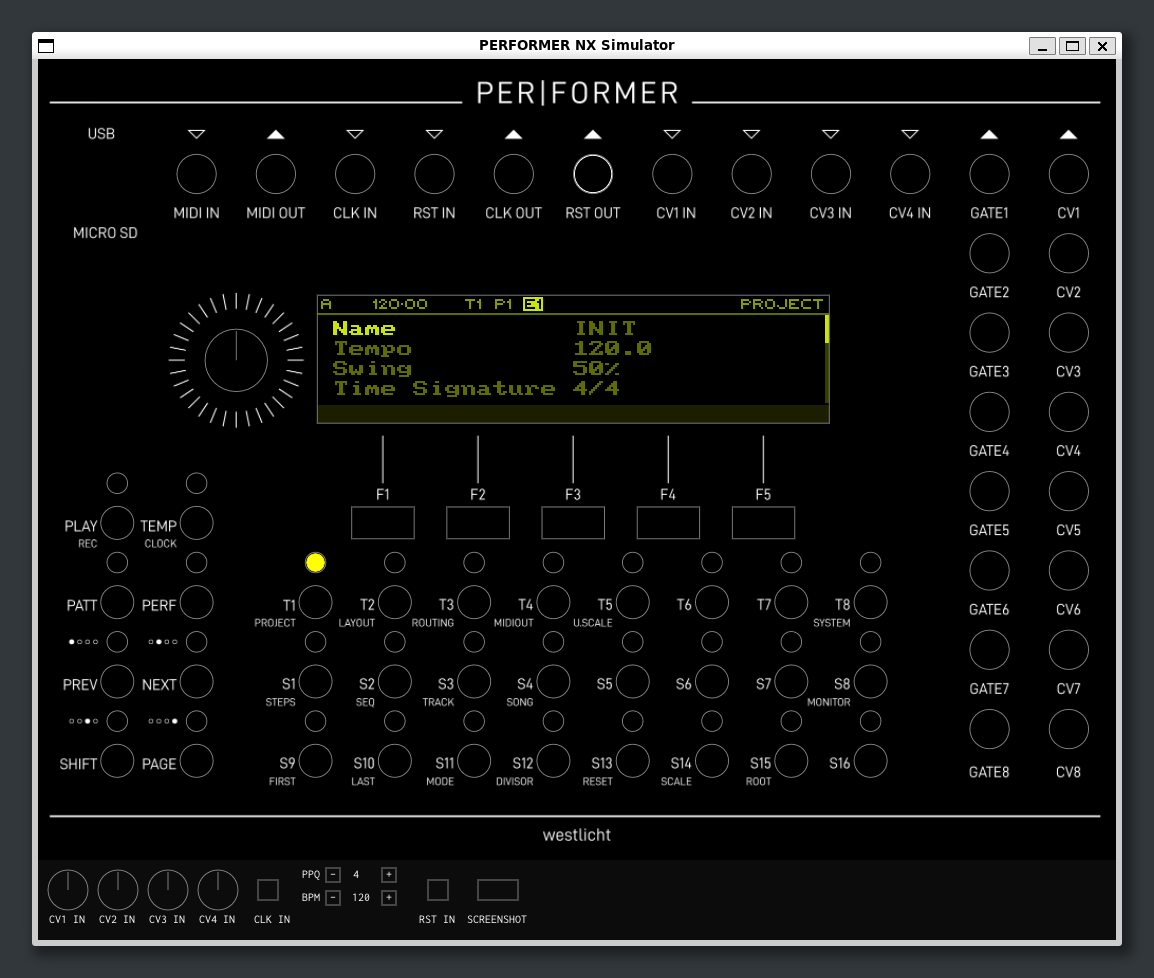
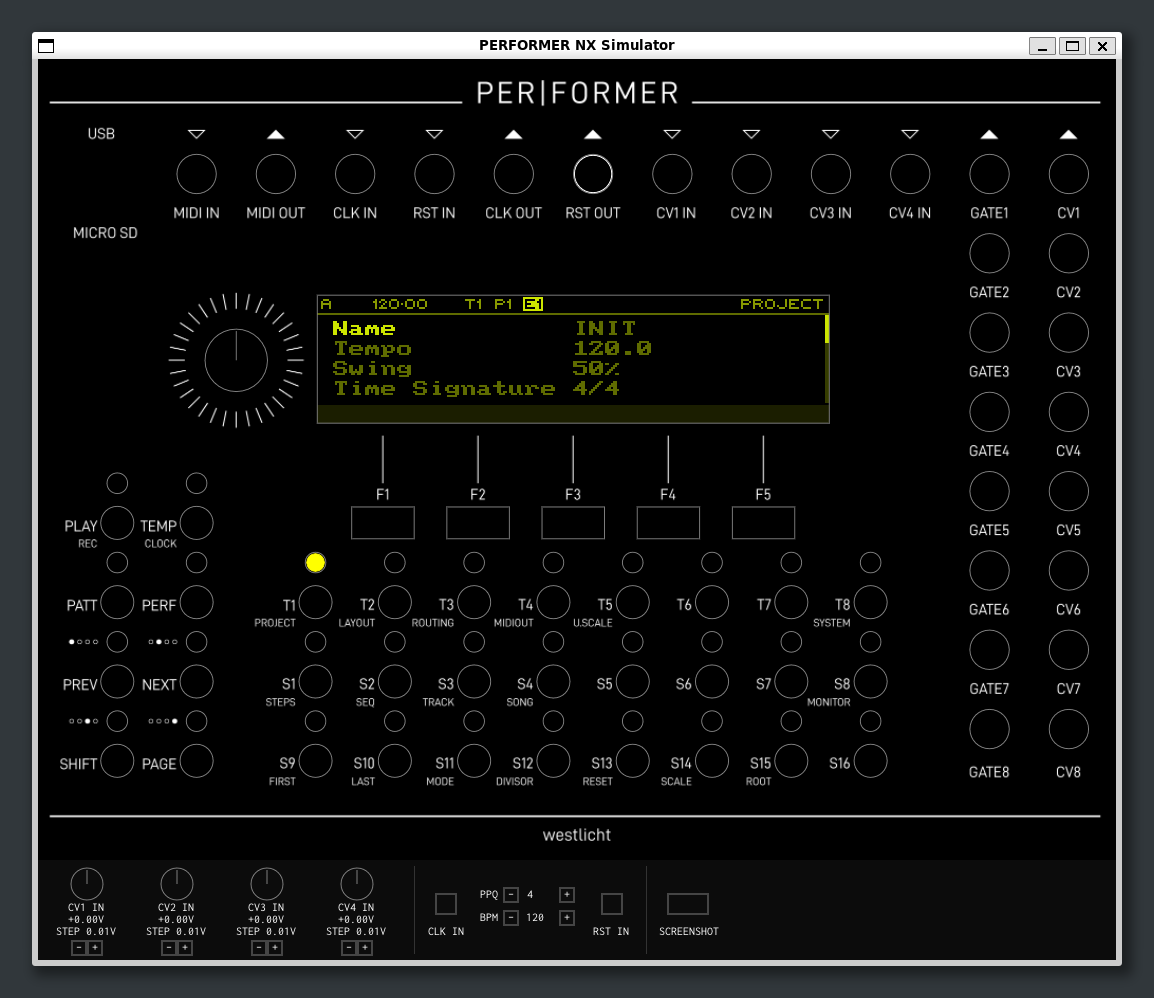
feat(Frontend): enhance CV input controls with fine-step adjustments and improved layout

diff --git a/src/platform/sim/sim/frontend/Frontend.cpp b/src/platform/sim/sim/frontend/Frontend.cpp
@@ -21,6 +21,7 @@
 #include <memory>
 #include <sstream>
 #include <iomanip>
+#include <algorithm>
 
 #ifdef __EMSCRIPTEN__
 #include <emscripten.h>
@@ -305,19 +306,72 @@ void Frontend::setupControls() {
     int x = 10;
     int y = Frontpanel::windowHeight;
 
+    constexpr float kCvMinVoltage = -5.f;
+    constexpr float kCvMaxVoltage = 5.f;
+    constexpr float kCvFineStepVoltage = 0.01f; // 1/100 V
+    const Color separatorColor(0.2f, 0.2f, 0.2f, 1.f);
+    const float separatorY = float(y + 6);
+    const float separatorHeight = float(Frontpanel::controlHeight - 12);
+
     // panel
     _window->createWidget<Panel>(Vector2f(0.f, Frontpanel::windowHeight), Vector2f(Frontpanel::windowWidth, Frontpanel::controlHeight), Color(1.f, 1.f, 1.f, 0.05f));
 
     // cv inputs
     for (int i = 0; i < TargetConfig::AdcChannels; ++i) {
-        auto rotary = _window->createWidget<Rotary>(Vector2f(x, y + 10), Vector2f(40, 40));
-        rotary->setValueCallback([this, i] (float value) {
-            _simulator.setAdc(i, value * 10.f - 5.f);
+        const int controlX = x;
+        // Center rotary over the 78px label/value area.
+        auto rotary = _window->createWidget<Rotary>(Vector2f(controlX + 23, y + 8), Vector2f(32, 32));
+        auto fineDown = _window->createWidget<Button>(Vector2f(controlX + 24, y + 81), Vector2f(14, 14), Button::Rectangle);
+        auto fineUp = _window->createWidget<Button>(Vector2f(controlX + 40, y + 81), Vector2f(14, 14), Button::Rectangle);
+
+        _window->createWidget<Label>(Vector2f(controlX + 28, y + 89), Vector2f(8, 8), "-");
+        _window->createWidget<Label>(Vector2f(controlX + 44, y + 89), Vector2f(8, 8), "+");
+        // Show the fine-step size centered below the CV label/value area.
+        _window->createWidget<Label>(Vector2f(controlX, y + 72), Vector2f(78, 10), "STEP 0.01V");
+
+        _window->createWidget<Label>(Vector2f(controlX, y + 48), Vector2f(78, 10), tfm::format("CV%d IN", i + 1));
+        auto voltageLabel = _window->createWidget<Label>(Vector2f(controlX, y + 60), Vector2f(78, 10), "");
+
+        auto formatVoltage = [] (float voltage) {
+            // Avoid rendering "-0.00V" near zero.
+            if (std::fabs(voltage) < 0.0005f) {
+                voltage = 0.f;
+            }
+            return tfm::format("%+.2fV", voltage);
+        };
+
+        auto setCvInputVoltage = [this, i, rotary, voltageLabel, formatVoltage, kCvMinVoltage, kCvMaxVoltage] (float voltage) {
+            float clampedVoltage = std::max(kCvMinVoltage, std::min(kCvMaxVoltage, voltage));
+            float normalized = (clampedVoltage - kCvMinVoltage) / (kCvMaxVoltage - kCvMinVoltage);
+            rotary->setValue(normalized);
+            _simulator.setAdc(i, clampedVoltage);
+            voltageLabel->setText(formatVoltage(clampedVoltage));
+        };
+
+        rotary->setValueCallback([setCvInputVoltage, kCvMinVoltage, kCvMaxVoltage] (float value) {
+            setCvInputVoltage(kCvMinVoltage + value * (kCvMaxVoltage - kCvMinVoltage));
         });
-        _simulator.setAdc(i, 0.f);
-        _window->createWidget<Label>(Vector2f(x, y + 60), Vector2f(40, 10), tfm::format("CV%d IN", i + 1));
-        x += 50;
+
+        fineDown->setCallback([setCvInputVoltage, rotary, kCvMinVoltage, kCvMaxVoltage, kCvFineStepVoltage] (bool pressed) {
+            if (pressed) {
+                float currentVoltage = kCvMinVoltage + rotary->value() * (kCvMaxVoltage - kCvMinVoltage);
+                setCvInputVoltage(currentVoltage - kCvFineStepVoltage);
+            }
+        });
+
+        fineUp->setCallback([setCvInputVoltage, rotary, kCvMinVoltage, kCvMaxVoltage, kCvFineStepVoltage] (bool pressed) {
+            if (pressed) {
+                float currentVoltage = kCvMinVoltage + rotary->value() * (kCvMaxVoltage - kCvMinVoltage);
+                setCvInputVoltage(currentVoltage + kCvFineStepVoltage);
+            }
+        });
+
+        setCvInputVoltage(0.f);
+        x += 90;
     }
+
+    _window->createWidget<Panel>(Vector2f(float(x + 6), separatorY), Vector2f(1.f, separatorHeight), separatorColor);
+    x += 14;
 
     // clock input
     {
@@ -325,24 +379,24 @@ void Frontend::setupControls() {
         int controlY = y;
 
         auto button = _window->createWidget<Button>(
-            Vector2f(controlX + 10, controlY + 20),
+            Vector2f(controlX + 14, controlY + 34),
             Vector2f(20, 20),
             Button::Rectangle,
             SDLK_F10
         );
-        _window->createWidget<Label>(Vector2f(controlX, controlY + 60), Vector2f(50, 10), "CLK IN");
+        _window->createWidget<Label>(Vector2f(controlX, controlY + 72), Vector2f(50, 10), "CLK IN");
 
         _clockSource.reset(new ClockSource(_simulator, [this] () {
             _simulator.writeDigitalInput(0, true);
             _simulator.writeDigitalInput(0, false);
         }));
 
-        auto ppqValueLabel = _window->createWidget<Label>(Vector2f(controlX + 94, controlY + 15), Vector2f(30, 10), "");
-        auto bpmValueLabel = _window->createWidget<Label>(Vector2f(controlX + 94, controlY + 38), Vector2f(40, 10), "");
+        auto ppqValueLabel = _window->createWidget<Label>(Vector2f(controlX + 94, controlY + 35), Vector2f(30, 10), "");
+        auto bpmValueLabel = _window->createWidget<Label>(Vector2f(controlX + 94, controlY + 58), Vector2f(40, 10), "");
 
-        _window->createWidget<Label>(Vector2f(controlX + 46, controlY + 15), Vector2f(35, 10), "PPQ");
+        _window->createWidget<Label>(Vector2f(controlX + 50, controlY + 35), Vector2f(35, 10), "PPQ");
         // Hint: correct PPQ = 48 / ClockSetup::InputDivisor (e.g. 48/12=4 for default 1/16)
-        _window->createWidget<Label>(Vector2f(controlX + 46, controlY + 38), Vector2f(35, 10), "BPM");
+        _window->createWidget<Label>(Vector2f(controlX + 50, controlY + 58), Vector2f(35, 10), "BPM");
 
         auto refreshClockLabels = [this, ppqValueLabel, bpmValueLabel] () {
             ppqValueLabel->setText(tfm::format("%d", _clockSource->ppqn()));
@@ -350,15 +404,15 @@ void Frontend::setupControls() {
         };
         refreshClockLabels();
 
-        auto ppqDown = _window->createWidget<Button>(Vector2f(controlX + 78, controlY + 8), Vector2f(14, 14), Button::Rectangle);
-        auto ppqUp = _window->createWidget<Button>(Vector2f(controlX + 134, controlY + 8), Vector2f(14, 14), Button::Rectangle);
-        auto bpmDown = _window->createWidget<Button>(Vector2f(controlX + 78, controlY + 31), Vector2f(14, 14), Button::Rectangle);
-        auto bpmUp = _window->createWidget<Button>(Vector2f(controlX + 134, controlY + 31), Vector2f(14, 14), Button::Rectangle);
+        auto ppqDown = _window->createWidget<Button>(Vector2f(controlX + 82, controlY + 28), Vector2f(14, 14), Button::Rectangle);
+        auto ppqUp = _window->createWidget<Button>(Vector2f(controlX + 138, controlY + 28), Vector2f(14, 14), Button::Rectangle);
+        auto bpmDown = _window->createWidget<Button>(Vector2f(controlX + 82, controlY + 51), Vector2f(14, 14), Button::Rectangle);
+        auto bpmUp = _window->createWidget<Button>(Vector2f(controlX + 138, controlY + 51), Vector2f(14, 14), Button::Rectangle);
 
-        _window->createWidget<Label>(Vector2f(controlX + 82, controlY + 16), Vector2f(8, 8), "-");
-        _window->createWidget<Label>(Vector2f(controlX + 138, controlY + 16), Vector2f(8, 8), "+");
-        _window->createWidget<Label>(Vector2f(controlX + 82, controlY + 39), Vector2f(8, 8), "-");
-        _window->createWidget<Label>(Vector2f(controlX + 138, controlY + 39), Vector2f(8, 8), "+");
+        _window->createWidget<Label>(Vector2f(controlX + 86, controlY + 36), Vector2f(8, 8), "-");
+        _window->createWidget<Label>(Vector2f(controlX + 142, controlY + 36), Vector2f(8, 8), "+");
+        _window->createWidget<Label>(Vector2f(controlX + 86, controlY + 59), Vector2f(8, 8), "-");
+        _window->createWidget<Label>(Vector2f(controlX + 142, controlY + 59), Vector2f(8, 8), "+");
 
         ppqDown->setCallback([this, refreshClockLabels] (bool pressed) {
             if (pressed) {
@@ -402,12 +456,12 @@ void Frontend::setupControls() {
     // reset input
     {
         auto button = _window->createWidget<Button>(
-            Vector2f(x + 10, y + 20),
+            Vector2f(x + 10, y + 34),
             Vector2f(20, 20),
             Button::Rectangle,
             SDLK_F11
         );
-        _window->createWidget<Label>(Vector2f(x, y + 60), Vector2f(40, 10), "RST IN");
+        _window->createWidget<Label>(Vector2f(x, y + 72), Vector2f(40, 10), "RST IN");
         x += 50;
 
         button->setCallback([this] (bool pressed) {
@@ -415,15 +469,18 @@ void Frontend::setupControls() {
         });
     }
 
+    _window->createWidget<Panel>(Vector2f(float(x + 4), separatorY), Vector2f(1.f, separatorHeight), separatorColor);
+    x += 12;
+
     // screenshot
     {
         auto button = _window->createWidget<Button>(
-            Vector2f(x + 10, y + 20),
+            Vector2f(x + 14, y + 34),
             Vector2f(40, 20),
             Button::Rectangle,
             SDLK_F12
         );
-        _window->createWidget<Label>(Vector2f(x, y + 60), Vector2f(60, 10), "SCREENSHOT");
+        _window->createWidget<Label>(Vector2f(x + 6, y + 72), Vector2f(60, 10), "SCREENSHOT");
         x += 70;
 
         button->setCallback([&] (bool pressed) {

diff --git a/src/platform/sim/sim/frontend/widgets/Rotary.h b/src/platform/sim/sim/frontend/widgets/Rotary.h
@@ -2,6 +2,8 @@
 
 #include "../Widget.h"
 
+#include <cmath>
+
 namespace sim {
 
 class Rotary : public Widget {
@@ -50,13 +52,29 @@ public:
         _hovered = isInside(e.pos());
         if (_pressed) {
             int delta = e.pos().x() - _lastPos.x();
-            updateValue(_value + delta / 100.f);
+            float nextValue = _value + delta / 100.f;
+
+            // Hold Shift while dragging to quantize to 0.25V steps.
+            // Rotary uses a normalized [0..1] range that maps to [-5V..+5V],
+            // so one 0.25V step equals 0.025 in normalized units.
+            if ((SDL_GetModState() & KMOD_SHIFT) != 0) {
+                constexpr float normalizedStep = 0.025f;
+                nextValue = std::round(nextValue / normalizedStep) * normalizedStep;
+            }
+
+            updateValue(nextValue);
             _lastPos = e.pos();
         }
     }
 
     virtual void onMouseDown(MouseButtonEvent &e) override {
         if (!_pressed && e.button() == MouseButtonEvent::Left && isInside(e.pos())) {
+            if (e.clicks() >= 2) {
+                // Double-click resets rotary center (exactly 0V in CV mapping).
+                updateValue(0.5f);
+                e.consume();
+                return;
+            }
             SDL_CaptureMouse(SDL_TRUE);
             _lastPos = e.pos();
             setPressed(true);

diff --git a/src/platform/sim/sim/frontend/Frontpanel.h b/src/platform/sim/sim/frontend/Frontpanel.h
@@ -22,7 +22,7 @@ static double scale = (256.0 / 82.0) * lcdIntegerScale;
 
 static int windowWidth = std::ceil(width * scale);
 static int windowHeight = std::ceil(height * scale);
-static int controlHeight = 80;
+static int controlHeight = 100;
 
 enum class Widget {
     Jack,

diff --git a/README.md b/README.md
@@ -39,6 +39,8 @@ Firmware for the **PERFORMER NX** Eurorack sequencer.
   - [Build strategy for reliable on-device debugging](#build-strategy-for-reliable-on-device-debugging)
   - [When to debug on hardware vs simulator](#when-to-debug-on-hardware-vs-simulator)
 - [Simulator workflow](#simulator-workflow)
+  - [Simulator keyboard mapping](#simulator-keyboard-mapping)
+  - [Simulator control strip](#simulator-control-strip)
   - [Simulator display color configuration](#simulator-display-color-configuration)
 - [Troubleshooting](#troubleshooting)
 - [Source tree overview](#source-tree-overview)
@@ -728,6 +730,95 @@ Typical simulator loop:
 2. Rebuild in `build/sim/debug`
 3. Run simulator
 4. Repeat
+
+### Simulator keyboard mapping
+
+The simulator mirrors the frontpanel buttons on the computer keyboard.
+The mapping below is derived from the simulator frontend and the test controller button map, so it reflects the current implementation.
+
+#### Frontpanel button mapping
+
+| Keyboard key | Simulator control | Notes |
+|---|---|---|
+| `Q` `W` `E` `R` `T` `Y` `U` `I` | `TRACK 1` … `TRACK 8` | Top row of track buttons |
+| `A` `S` `D` `F` `G` `H` `J` `K` | `STEP 1` … `STEP 8` | Middle row |
+| `Z` `X` `C` `V` `B` `N` `M` `,` | `STEP 9` … `STEP 16` | Bottom row, last key is comma |
+| `1` | `PLAY` | Global transport button |
+| `2` | `CLOCK` | Clock page / clock button |
+| `3` | `PATT` | Pattern page / pattern button |
+| `4` | `PERF` | Performer page / performer button |
+| `Left Arrow` | `PREV` | Previous / left navigation button |
+| `Right Arrow` | `NEXT` | Next / right navigation button |
+| `Left Shift` | `SHIFT` | Modifier button on the frontpanel |
+| `Left Alt` | `PAGE` | Page modifier button |
+| `F1` … `F5` | Soft buttons `F1` … `F5` | Frontpanel function buttons |
+| `Space` | Encoder press | Presses the encoder button |
+
+#### Simulator-only keyboard shortcuts
+
+| Keyboard key | Simulator control | Notes |
+|---|---|---|
+| `F10` | `CLK IN` | Toggles external clock emulation on/off |
+| `F11` | `RST IN` | Holds the reset input while pressed |
+| `F12` | Screenshot | Saves `screenshot.png` from the simulator window |
+
+Notes:
+
+- The encoder rotation itself is currently controlled with the mouse in the simulator.
+- The extra control strip below the panel (CV inputs, clock/reset emulation, screenshot) is simulator-only and has no hardware equivalent.
+
+### Simulator control strip
+
+Below the frontpanel image, the simulator provides an additional control strip for test and development workflows.
+It lets you emulate analog CV inputs, external clock/reset signals, and capture LCD screenshots without requiring hardware.
+
+#### CV input emulation (`CV1 IN` … `CV4 IN`)
+
+Each simulated CV input provides a rotary control plus a live voltage readout.
+
+- Voltage range: `-5.00V` to `+5.00V`
+- Default value at startup: `0.00V`
+- Live readout updates immediately and is shown with two decimal places
+- Fine-step buttons change the value in `0.01V` increments
+- Values are clamped to the valid input range
+
+Mouse interaction on the CV rotaries:
+
+- **Drag** to change the input voltage continuously
+- **Double-click** to reset the value exactly to `0.00V`
+- **Hold `SHIFT` while dragging** to quantize movement in `0.25V` steps
+
+These controls drive the simulator ADC inputs directly and are useful for testing CV recording, routing, modulation, and threshold-sensitive logic.
+
+#### Clock and reset emulation (`CLK IN` / `RST IN`)
+
+The clock section simulates the external digital clock input used by the sequencer engine.
+
+- `CLK IN` toggles the external clock generator on/off
+- The button fill state indicates whether the clock generator is currently active
+- `PPQ` sets the external clock pulses per quarter note
+- `BPM` sets the tempo of the generated clock
+- Current default values are `PPQ = 4` and `BPM = 120`
+- Minimum values are clamped to `1` for both PPQ and BPM
+
+Important note for clock validation:
+
+- The simulator clock PPQ should match the expected external clock rate for the selected `Input Divisor`
+- Rule of thumb: `PPQ = 48 / Input Divisor`
+- Example: default `Input Divisor = 12` (`1/16`) corresponds to `4 PPQ`
+
+The `RST IN` control emulates the reset/run input line as a momentary digital input while the button/key is held.
+Its exact effect depends on the selected clock input mode in the sequencer project (`Reset`, `Run`, or `StartStop`).
+
+#### Screenshot function
+
+The `SCREENSHOT` button captures the simulated LCD contents and writes them to `screenshot.png` in the current working directory.
+
+Important details:
+
+- The screenshot contains the **LCD framebuffer only**, not the full simulator window chrome or frontpanel image
+- The image is written as a grayscale PNG using the current simulated LCD contents
+- If you launch the simulator from `build/sim/debug`, the file is created there unless you change the working directory first
 
 ### Simulator display color configuration
 
